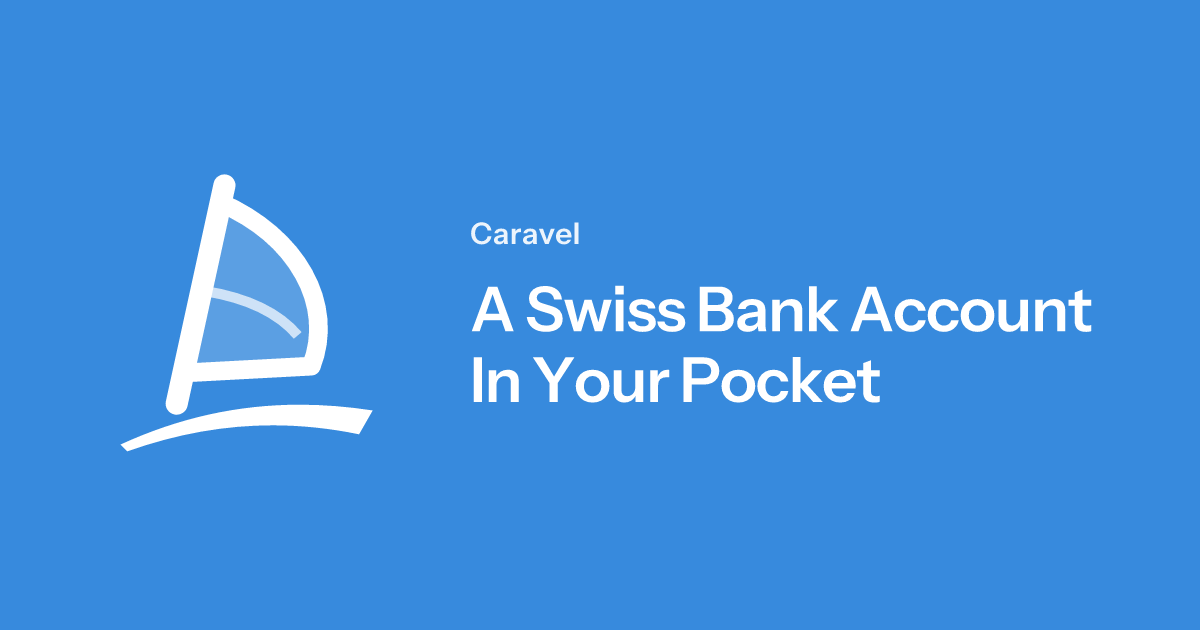
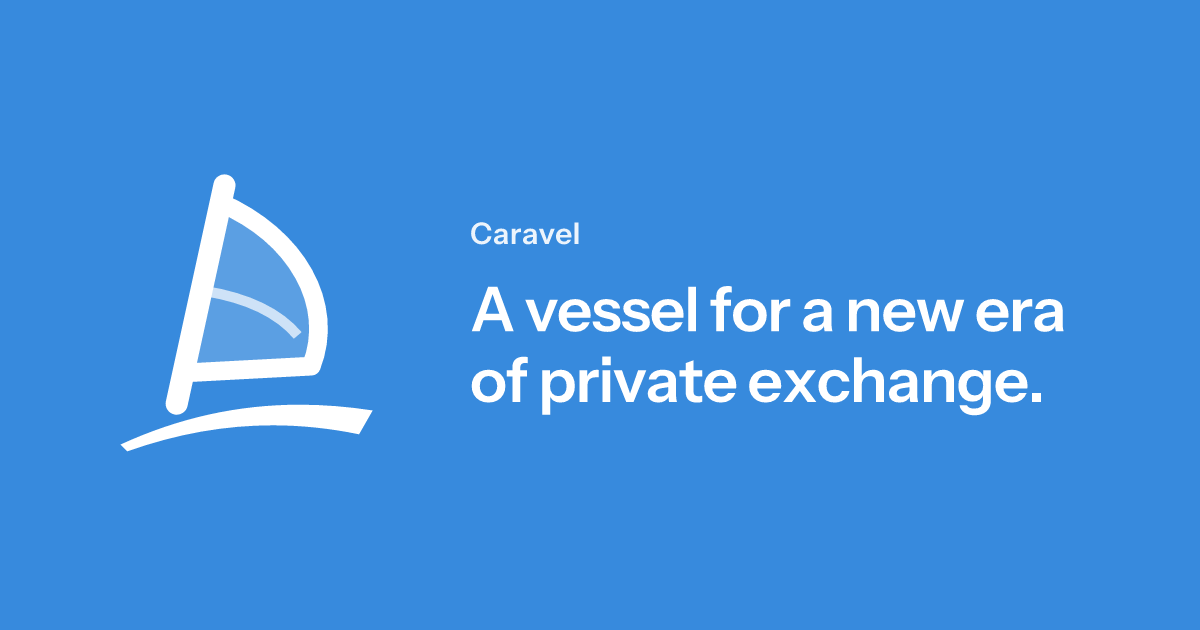
brand: 'A vessel' tagline and new link-preview card

Changed region(s): [[0.37, 0.4524, 0.925, 0.6635]]

diff --git a/index.html b/index.html
@@ -26,12 +26,12 @@
     <meta property="og:url" content="https://caravellabs.net/" />
     <meta property="og:title" content="Caravel" />
     <meta property="og:description" content="Encrypted chat with private TARI payments, through the Sapient wallet." />
-    <meta property="og:image" content="https://caravellabs.net/og-image.png" />
+    <meta property="og:image" content="https://caravellabs.net/og-image.png?v=2" />
     <meta property="og:image:width" content="1200" />
     <meta property="og:image:height" content="630" />
-    <meta property="og:image:alt" content="Caravel: the vessel for a new era of private exchange." />
+    <meta property="og:image:alt" content="Caravel: a vessel for a new era of private exchange." />
     <meta name="twitter:card" content="summary_large_image" />
-    <meta name="twitter:image" content="https://caravellabs.net/og-image.png" />
+    <meta name="twitter:image" content="https://caravellabs.net/og-image.png?v=2" />
     <link rel="preconnect" href="https://fonts.googleapis.com" />
     <link rel="preconnect" href="https://fonts.gstatic.com" crossOrigin="" />
     <link href="https://fonts.googleapis.com/css2?family=Instrument+Sans:ital,wght@0,400..700;1,400..700&family=IBM+Plex+Mono:wght@400;500;600&display=swap" rel="stylesheet" />

diff --git a/src/components/landing/LandingPage.tsx b/src/components/landing/LandingPage.tsx
@@ -184,7 +184,7 @@ export default function LandingPage() {
       {/* ── Hero: copy left, the chat window right; stacks when narrow ── */}
       <section id="top" className="cv-lp-wrap cv-lp-hero">
         <div style={{ flex: '1 1 420px', minWidth: 0, display: 'flex', flexDirection: 'column', alignItems: 'flex-start' }}>
-          <h1 className="cv-lp-h1">The vessel for a new era of private exchange.</h1>
+          <h1 className="cv-lp-h1">A vessel for a new era of private exchange.</h1>
           <p style={{ margin: '24px 0 0', maxWidth: 460, fontSize: 20, lineHeight: 1.5, fontWeight: 500, color: 'var(--text-body-dim)' }}>
             Private messages and private payments, in one conversation.
           </p>

diff --git a/README.md b/README.md
@@ -1,6 +1,6 @@
 # Caravel
 
-**The vessel for a new era of private exchange.**
+**A vessel for a new era of private exchange.**
 
 Caravel puts private messages over Nostr and private payments on the Tari Ootle in one
 conversation. It runs in your browser, and it never holds your funds or your wallet keys.
